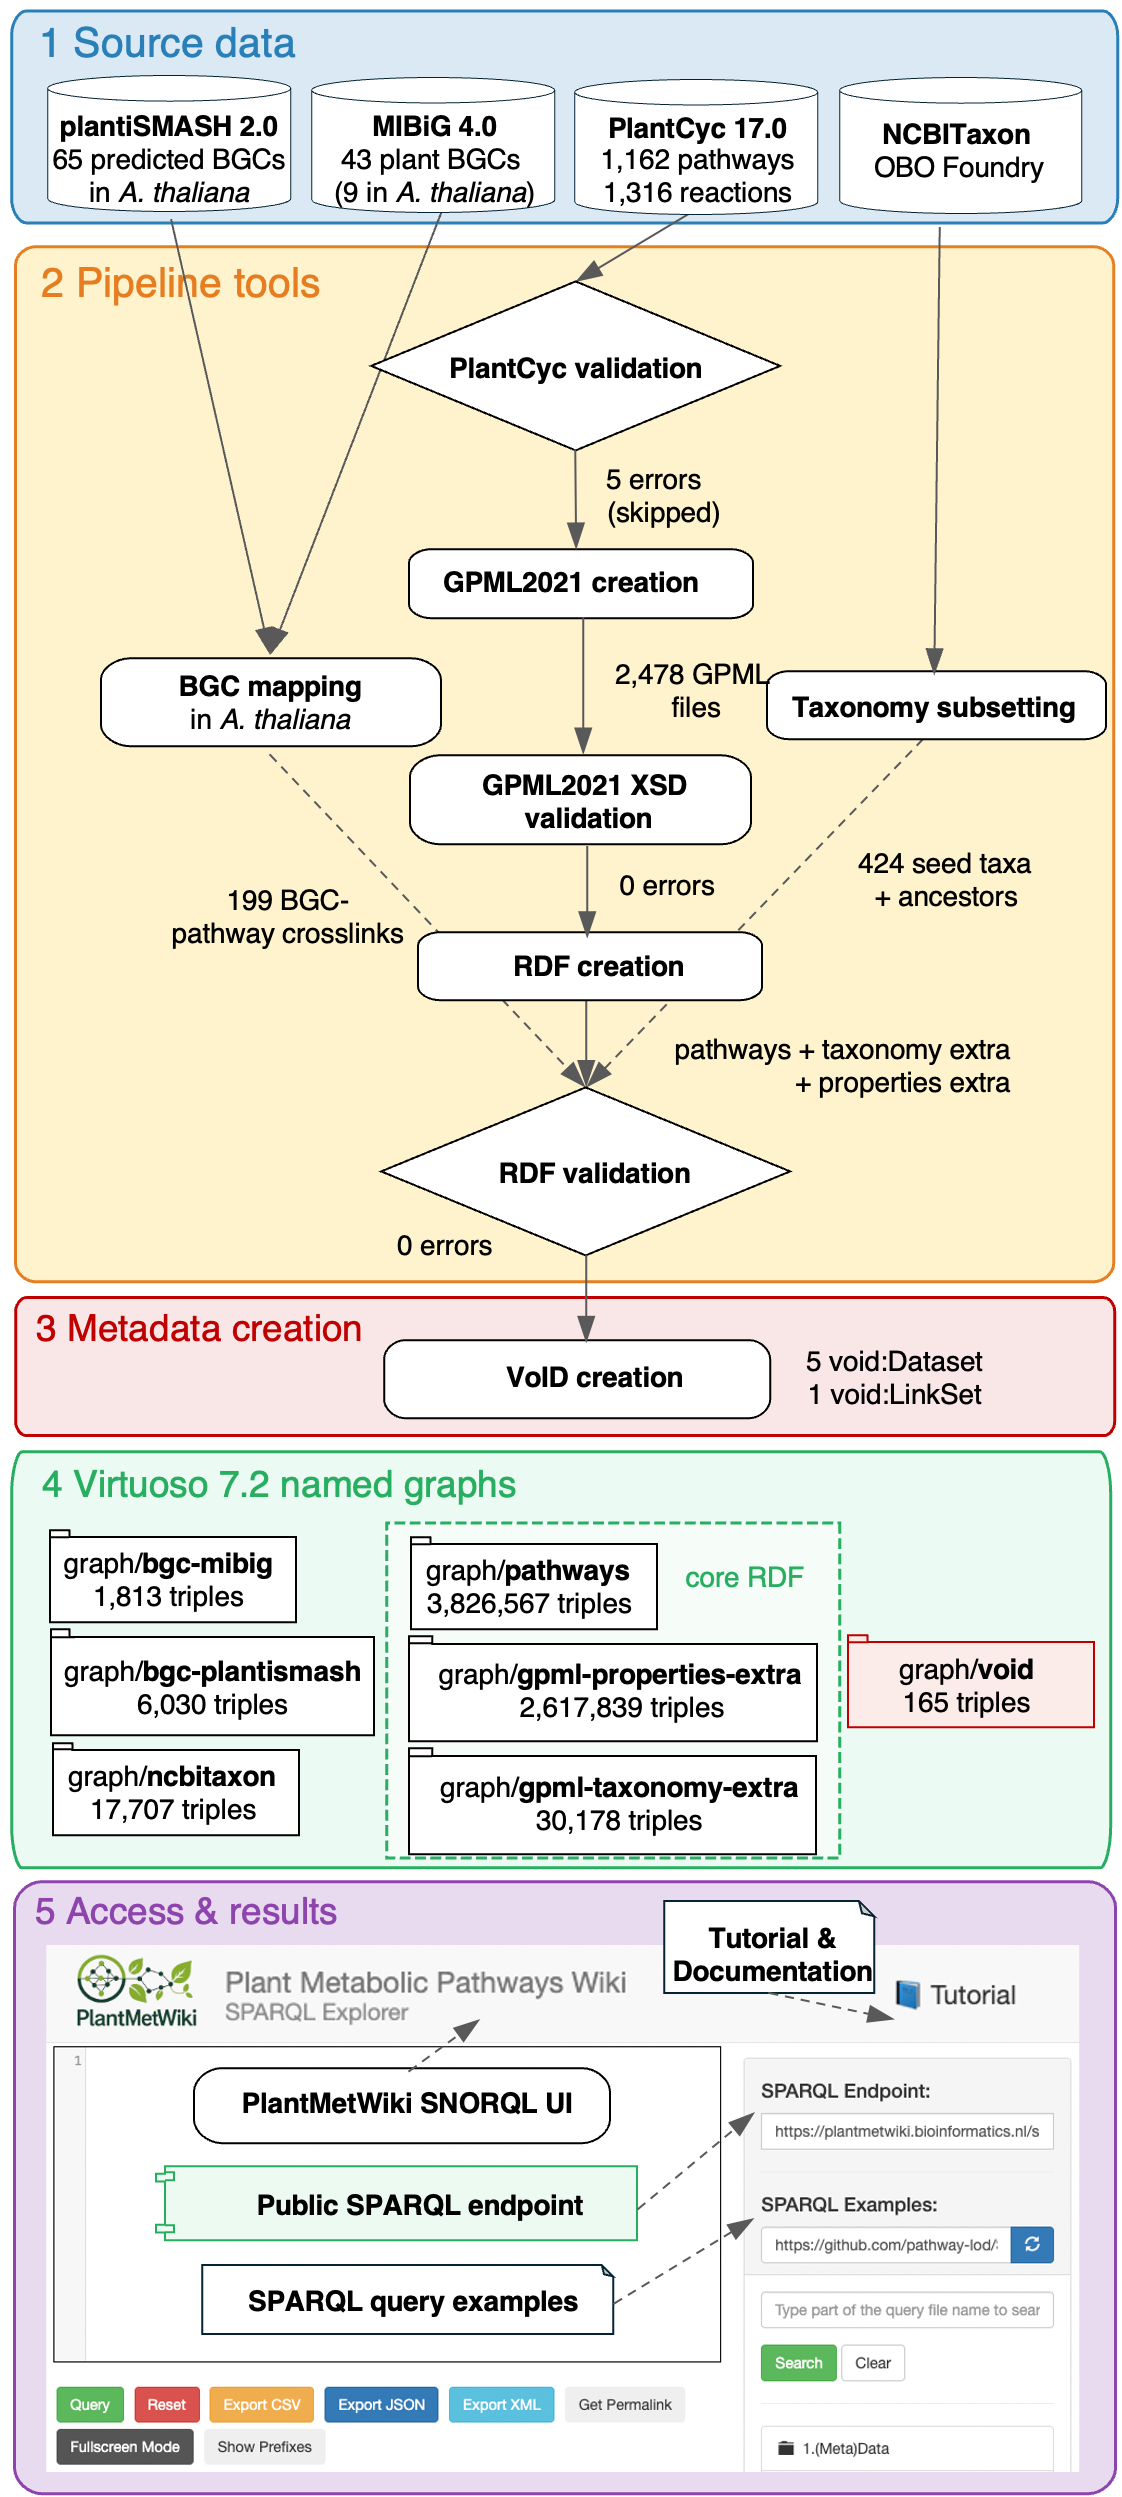
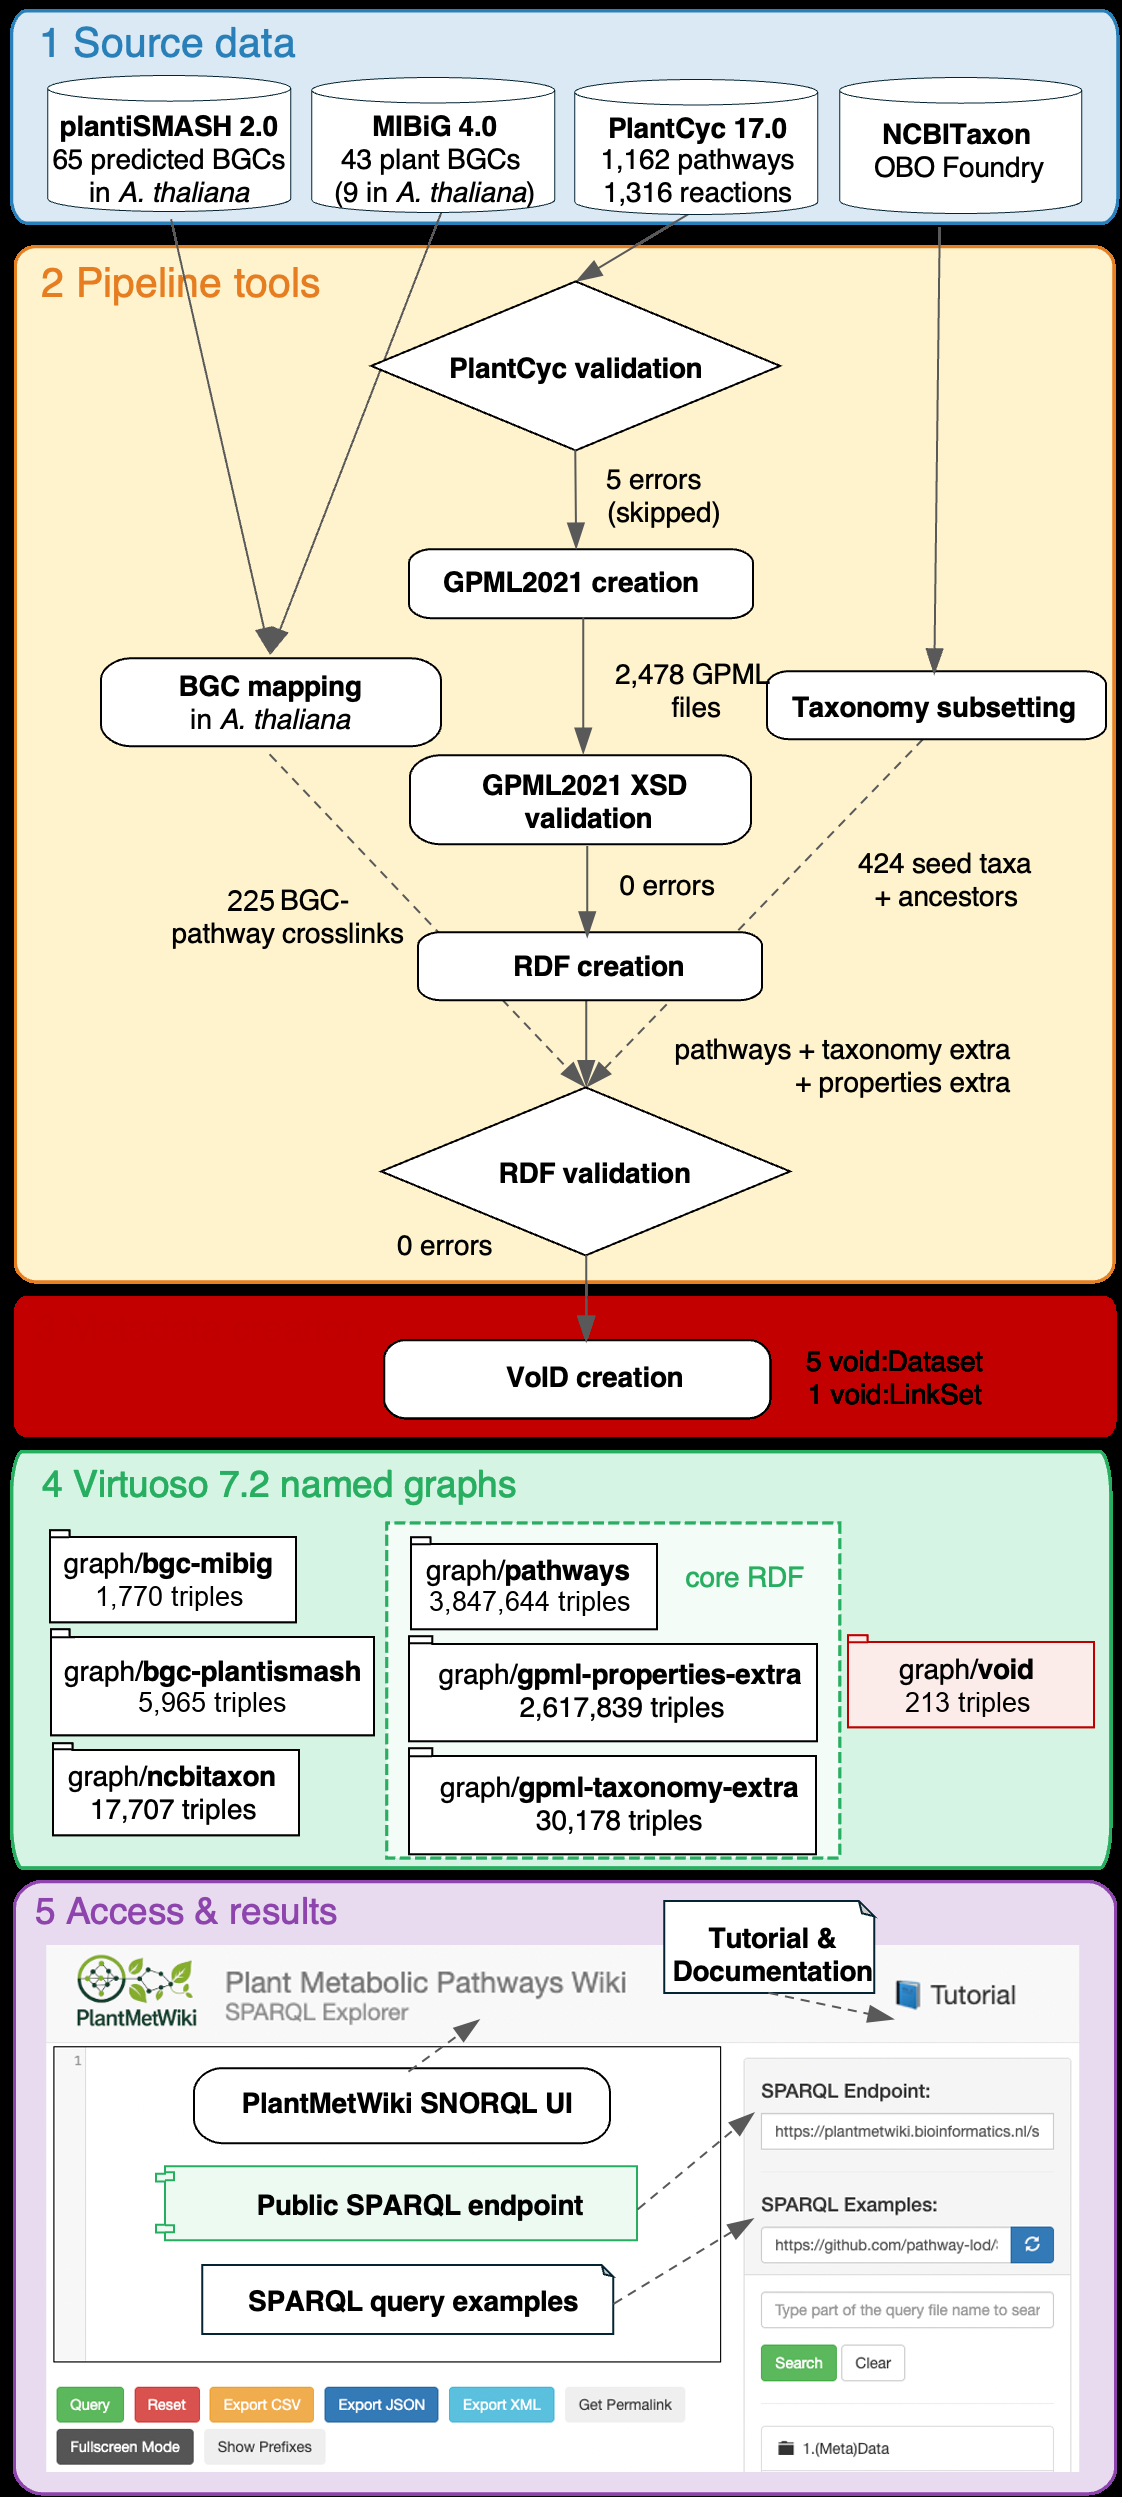
Align author contributions, number figure legends, correct Figure 1 artwork
- Author contributions now list Martens before Willighagen, matching the
  author list.
- main.tex figure legends are line-numbered: the six figure floats become
  plain blocks with \captionof, since lineno does not number text inside
  floats. Same change already made in the supplementary.
- figure1.png artwork corrected in place against the live endpoint:
  199 -> 225 BGC-pathway crosslinks; graph/pathways 3,826,567 -> 3,847,644;
  graph/bgc-mibig 1,813 -> 1,770; graph/bgc-plantismash 6,030 -> 5,965;
  graph/void 165 -> 213. Replacement text is Arial 27, calibrated against
  two untouched sibling labels so it matches the original typography.
- Results text updated to match: core graph 3,847,644 triples, BGC
  crosslinks 7,735 triples.

No editable source for figure1.png exists in the repo, so this is a
pixel-level edit of the PNG rather than a redraw; the original is kept in
git history.

diff --git a/main.tex b/main.tex
@@ -57,6 +57,7 @@
 \usepackage{longtable}
 \usepackage{array}
 \usepackage{xcolor}
+\usepackage{caption}   % \captionof, so figure legends are line-numbered
 \usepackage{lineno}
 \usepackage[hidelinks]{hyperref}
 \usepackage{setspace}
@@ -531,7 +532,7 @@ enzymes actually participate in), \textit{A. thaliana} is linked to 1,354 metabo
 nodes), and 4,732 catalysis interactions (38\% of all \texttt{wp:Catalysis} nodes) (Fig.~S6).
 
 Biosynthetic gene cluster (BGC) crosslinks, integrated from MIBiG 4.0 and plantiSMASH 2.0 predictions,
-contribute an additional 7,843 triples to the knowledge graph, including all 43 plant BGCs from MIBiG
+contribute an additional 7,735 triples to the knowledge graph, including all 43 plant BGCs from MIBiG
 4.0, out of which 9 are annotated to \textit{A. thaliana}, and 65 plantiSMASH-detected \textit{A.
 thaliana} BGCs in the plantiSMASH 2.0 database\cite{owen2025}. Of these 74 \textit{A. thaliana} BGCs
 in total, 44 (38 from plantiSMASH and six from MIBiG) share at least one gene
@@ -553,7 +554,7 @@ PlantCyc pathway.
 
 The resulting current PlantMetWiki RDF knowledge graph is organized as a multi-graph Virtuoso
 triplestore including seven named graphs (Figure~\ref{fig:pipeline}), each representing a distinct
-layer of the data model (Supplementary Table S6). The core graph (3,826,567 triples) encodes 2,758
+layer of the data model (Supplementary Table S6). The core graph (3,847,644 triples) encodes 2,758
 gene products, 3,750 enzymes, 4,577 metabolites, and 54,800 typed interaction edges, of which 19,927
 are biochemical conversions and 12,359 are catalytic links. Pathway content is supported by 4,085
 distinct literature references annotated with PubMed IDs on pathway nodes. A separate properties graph
@@ -1287,8 +1288,8 @@ and deposited in versioned releases in Zenodo at \url{https://zenodo.org/communi
 Elena Del Pup: Conceptualization, Data curation, Formal analysis, Funding acquisition, Investigation,
 Software, Writing -- original draft.
 Max Muller: Data curation, Formal analysis, Software, Validation.
-Egon L. Willighagen: Conceptualization, Formal analysis, Methodology, Software, Writing -- review \& editing.
 Marvin Martens: Methodology, Software, Validation.
+Egon L. Willighagen: Conceptualization, Formal analysis, Methodology, Software, Writing -- review \& editing.
 Marnix H. Medema: Funding acquisition, Project administration, Supervision, Writing -- review \& editing.
 Denise Slenter: Conceptualization, Data curation, Formal analysis, Methodology, Software, Supervision,
 Validation, Writing -- original draft, Writing -- review \& editing.
@@ -1333,9 +1334,11 @@ reviewed and edited the AI-assisted work as needed and take full responsibility 
 \clearpage
 \section*{Figures}
 
-\begin{figure}[p]\centering
+\begin{center}
 \includegraphics[height=0.64\textheight,keepaspectratio]{figures/figure1.png}
-\caption{\scriptsize \textbf{PlantMetWiki data transformation pipeline and architecture.} The five
+\end{center}
+
+\captionof{figure}{\scriptsize \textbf{PlantMetWiki data transformation pipeline and architecture.} The five
 stages of PlantMetWiki knowledge-graph construction. \textbf{(1) Source data} (blue): MIBiG 4.0 and
 plantiSMASH 2.0 biosynthetic gene cluster (BGC) annotations, PlantCyc 17.0 (1,162 pathways, 1,316
 reactions, 439 NCBI taxa), and the OBO Foundry NCBITaxon ontology. \textbf{(2) Pipeline tools}
@@ -1353,12 +1356,15 @@ tutorial, documentation and example queries; Jupyter notebooks reproduce the fig
 cross-species inference analyses, and the federated queries to external endpoints such as Wikidata.
 All repositories are at \url{https://github.com/pathway-lod}; tool versions, scripts and URLs are
 given in Materials and Methods. Solid arrows: automated steps; dashed arrows: manual steps.}
-\label{fig:pipeline}\end{figure}
+\label{fig:pipeline}
+
 \clearpage
 
-\begin{figure}[p]\centering
+\begin{center}
 \includegraphics[width=\textwidth]{figures/figure2.png}
-\caption{\footnotesize \textbf{PlantMetWiki core graph model.} \textbf{(A) Pathway semantic model.} Every pathway
+\end{center}
+
+\captionof{figure}{\footnotesize \textbf{PlantMetWiki core graph model.} \textbf{(A) Pathway semantic model.} Every pathway
 (\texttt{wp:Pathway}, blue centre; 1,162 PlantCyc pathways PC* and 1,316 reactions RC*) is associated
 with two categories of RDF resource via \texttt{dcterms:isPartOf}: DataNodes (biological entities;
 blue dashed box) and Interactions (directed biological events; brown dashed box). DataNode types:
@@ -1381,12 +1387,15 @@ targets a \texttt{wp:Conversion} node. \texttt{wp:Conversion} goes from one or m
 \texttt{wp:Metabolite} (substrates) to one or more \texttt{wp:Metabolite} (products); (4) Complex
 formation: \texttt{wp:Binding}/\texttt{wp:ComplexBinding} links \texttt{wp:Metabolite} or
 \texttt{wp:Complex} nodes to a \texttt{wp:Complex}.}
-\label{fig:model}\end{figure}
+\label{fig:model}
+
 \clearpage
 
-\begin{figure}[p]\centering
+\begin{center}
 \includegraphics[width=\textwidth]{figures/figure3.png}
-\caption{\footnotesize \textbf{Semantic model of the capsaicin biosynthesis pathway (PWY-5710) across named
+\end{center}
+
+\captionof{figure}{\footnotesize \textbf{Semantic model of the capsaicin biosynthesis pathway (PWY-5710) across named
 graphs.} Capsaicin biosynthesis (PWY-5710, \texttt{wp:Pathway}) and DataNode MONOMER-13528
 (\textit{Capsicum chinense} capsaicin synthase, UniProt O81646, \texttt{wp:Protein}) shown across
 three named graphs. Solid grey edges originate from \texttt{graph/pathways} (core WikiPathways RDF,
@@ -1397,13 +1406,16 @@ taxonomy-extra layer and mapped to the OBO Foundry IRI graph, resulting in NCBIT
 (Viridiplantae) mapped to the pathway and NCBITaxon:80379 -- among others -- mapped to the individual
 Protein and GeneProduct nodes. The Metabolite, Protein and GeneProduct DataNodes are connected to
 PWY-5710 via \texttt{dcterms:isPartOf} in \texttt{graph/pathways}.}
-\label{fig:capsaicin}\end{figure}
+\label{fig:capsaicin}
+
 \clearpage
 
-\begin{figure}[p]\centering
+\begin{center}
 \includegraphics[width=0.92\textwidth]{figures/figure4a.pdf}\\[0.8em]
 \includegraphics[width=0.92\textwidth]{figures/figure4b.pdf}
-\caption{\footnotesize \textbf{Metabolic annotation matrix and cross-species inference potential of PlantMetWiki and
+\end{center}
+
+\captionof{figure}{\footnotesize \textbf{Metabolic annotation matrix and cross-species inference potential of PlantMetWiki and
 contribution of \textit{A. thaliana}.} \textbf{(A)} Global breakdown of all (reaction $\times$ species)
 pairs across all pathways with $\geq$1 species annotation. "Annotated" = a \texttt{wp:Catalysis} link
 exists for the species--reaction pair; "Inferable gap" = a gap where $\geq$1 other species in the same
@@ -1416,12 +1428,15 @@ category. Monolignol biosynthesis is the 14th pathway in the rank. \textbf{(C)} 
 several sources; no \textit{A. thaliana} evidence). \textbf{(D)} Distribution of evidence depth
 (number of species with enzymes annotated to a given reaction) across inferable gap cells.
 \textbf{(E)} Top species ranked by the total inferable gap cells they could help resolve.}
-\label{fig:matrix}\end{figure}
+\label{fig:matrix}
+
 \clearpage
 
-\begin{figure}[p]\centering
+\begin{center}
 \includegraphics[width=\textwidth]{figures/figure5.pdf}
-\caption{\footnotesize \textbf{Metabolite cross-reference coverage: direct BridgeDb mapping complements InChIKey
+\end{center}
+
+\captionof{figure}{\footnotesize \textbf{Metabolite cross-reference coverage: direct BridgeDb mapping complements InChIKey
 federation.} \textbf{(A)} How the 4,577 \texttt{wp:Metabolite} nodes resolve to external chemical
 databases: 3,198 (69.9\%) carry $\geq$1 BridgeDb-materialised cross-reference and are resolvable
 directly in the graph without federation; 1,207 (26.4\%) carry only an InChIKey and remain reachable
@@ -1434,12 +1449,15 @@ KEGG and adds Wikidata (3,059), ChemSpider (2,317), HMDB (975) and LipidMaps (51
 the source, so most mapped metabolites become hubs to $\geq$4 databases. MetaNetX is not part of the
 BridgeDb metabolite build and remains source-only. Mappings are added under separate predicates and
 never overwrite the curated identifier.}
-\label{fig:bridgedb}\end{figure}
+\label{fig:bridgedb}
+
 \clearpage
 
-\begin{figure}[p]\centering
+\begin{center}
 \includegraphics[width=0.95\textwidth]{figures/figure6.pdf}
-\caption{\footnotesize \textbf{Wikidata coverage and chemical novelty of the 4,111 InChIKey-annotated
+\end{center}
+
+\captionof{figure}{\footnotesize \textbf{Wikidata coverage and chemical novelty of the 4,111 InChIKey-annotated
 metabolites.} \textbf{(A)} Overall split into exact InChIKey matches (blue, already in Wikidata),
 skeleton-only matches (light blue, Wikidata holds a stereoisomer/tautomer/salt form of the same
 molecule, but not this exact form), and no structural match (red, the molecule is entirely absent from
@@ -1456,7 +1474,8 @@ pathway count and labelled with the producing genus. Restricting to single-speci
 reaction intermediates with no organism-annotated enzyme and highlights the taxonomically restricted
 specialized metabolites PlantMetWiki uniquely holds. The full ranked list of all 421 novel candidates
 is in Supplementary Table S7.}
-\label{fig:wikidata}\end{figure}
+\label{fig:wikidata}
+
 
 %==============================================================================
 % REFERENCES
